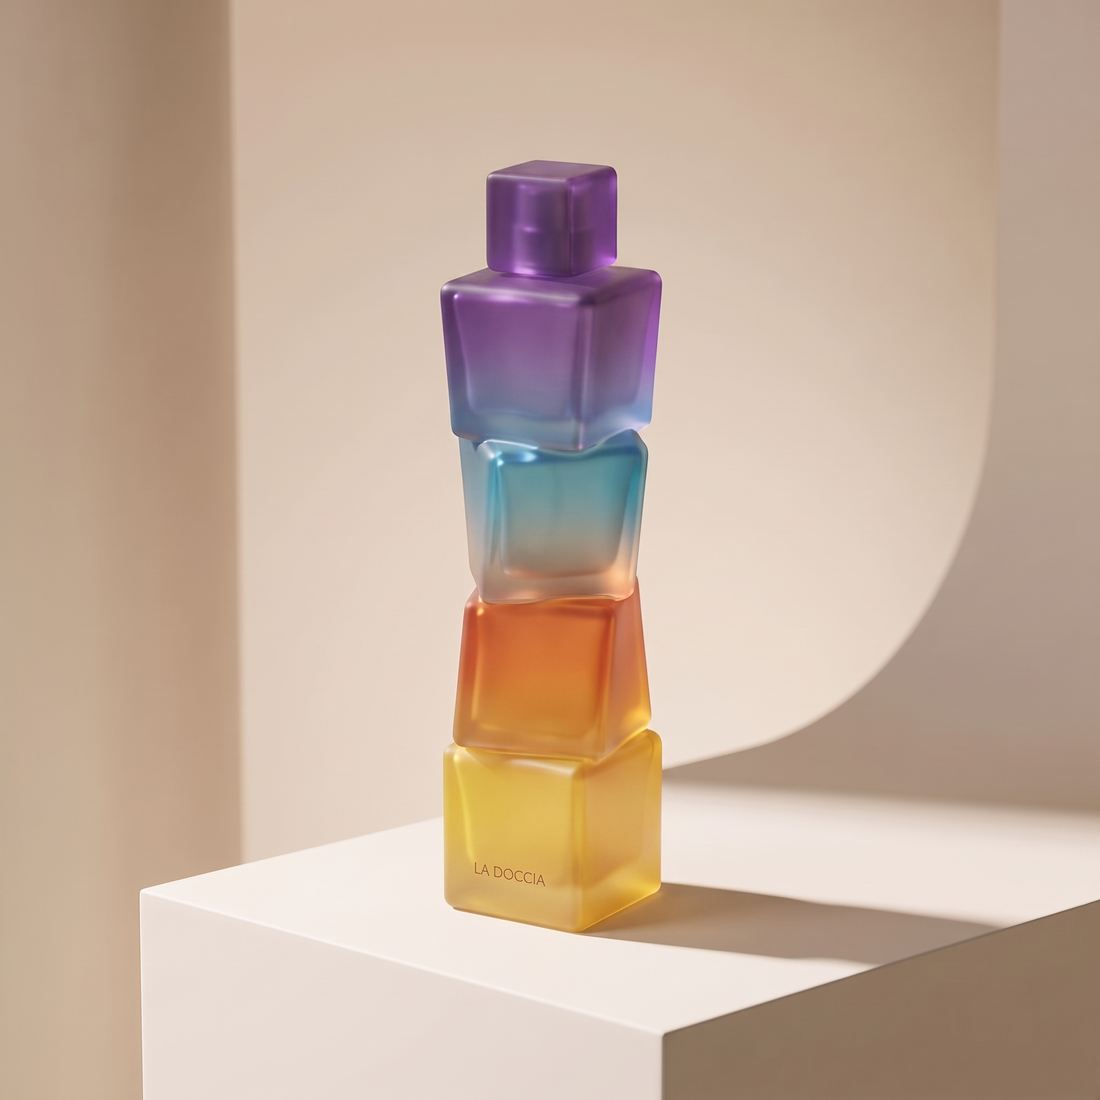
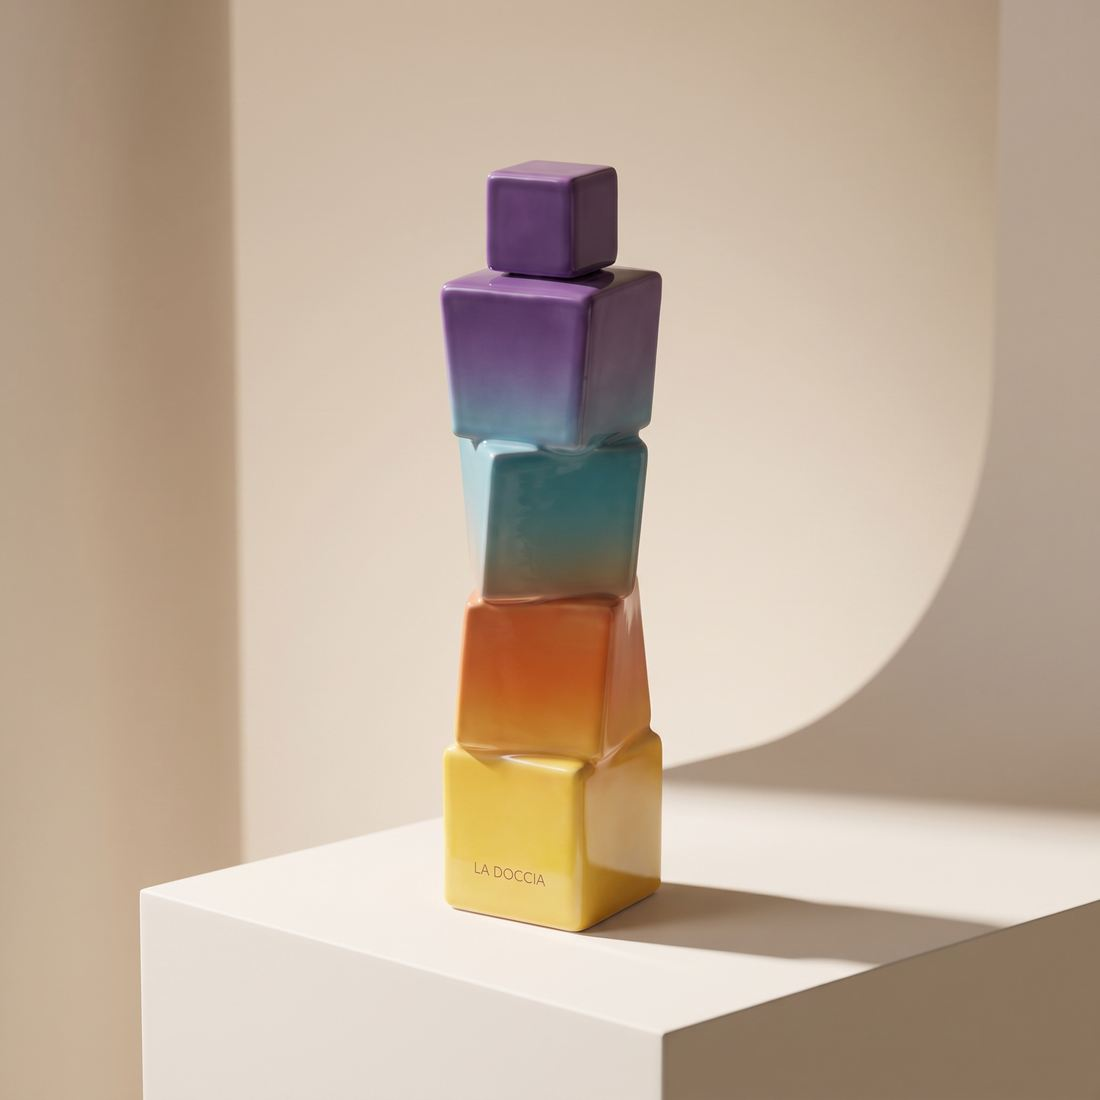
Glas-Editionen zusaetzlich: jede Wuerfel-Parfuemform jetzt auch in satiniertem Glas
- Originale (lackiert) wiederhergestellt - bleiben unveraendert
- 6 neue Produkte als Glas-Edition „Vetro": Torre, Quattro, Duo, Piccolo, Grattacielo, Cubo (p159-p164)
- Gleiche Form wie das jeweilige Original, Material satiniert-opakes Glas, je 3 Galeriebilder
- Glas-Editionen liegen im Shop direkt neben ihrem lackierten Original

Changed region(s): [[0.4018, 0.1236, 0.6491, 0.8655]]

diff --git a/index.html b/index.html
@@ -2073,14 +2073,18 @@ const P=[
  {id:'p137',cat:'mode',sc:'taschen',who:'damen',n:'Baguette „Lunga“',p:249,img:'assets/p/137_a.jpg',img2:'assets/p/137_a_v2.jpg',gal:["assets/p/137_a_v2.jpg", "assets/p/137_a_v3.jpg"],r:4.9,rv:2,badge:'Neu',mat:'Genarbtes Leder',rel:["p117","p136","p116"],d:'Die längliche Form der Familie: schmale Baguette-Tasche mit exakt geraden Kanten, goldener Ziernaht und den vier goldgefassten Quadraten auf der Front.',x:'Unter den Arm oder in die Hand — Magnetverschluss, goldene Füße am Boden.'},
  {id:'p138',cat:'mode',sc:'oberteile',who:'herren',n:'Sommerhemd „Quadri“',p:129,img:'assets/p/138_a.jpg',img2:'assets/p/138_a_v2.jpg',gal:["assets/p/138_a_v2.jpg", "assets/p/138_a_v3.jpg"],r:4.9,rv:2,badge:'Neu',mat:'100 % Baumwolle',sizes:["S","M","L","XL"],rel:["p131","p149","p122"],d:'Das Sommerhemd mit dem gestreuten Quadrate-Print — wie Farbtropfen im Regen, elegant statt laut. Goldene Quadrat-Knöpfe, türkise Ziernaht am Kragen.',x:'Reverskragen, gerader Saum — lässt sich offen oder geschlossen tragen. Bei 30 °C waschen.'},
  {id:'p140',cat:'parfuem',sc:'edp',n:'Eau de Parfum „Duo“, 30 ml',p:99,img:'assets/p/140_a.jpg',img2:'assets/p/140_b.jpg',gal:["assets/p/140_b.jpg", "assets/p/140_c.jpg"],r:4.9,rv:2,badge:'Neu',rel:["p128","p141","p128"],d:'Zwei Würfel, zwei Farben: Türkis unten, Violett oben, ein geschlossener Block — der kleine Bruder des Turms. Die Öffnung sitzt unsichtbar im oberen Würfel.',x:'12 % Duftölanteil. Handlich fürs Regal und die Reise.'},
+ {id:'p161',cat:'parfuem',sc:'edp',n:'Eau de Parfum „Duo Vetro“, 30 ml',p:99,img:'assets/p/140_glas_a.jpg',img2:'assets/p/140_glas_b.jpg',gal:["assets/p/140_glas_b.jpg", "assets/p/140_glas_c.jpg"],r:5.0,rv:2,badge:'Neu',rel:["p140","p162","p160"],d:'Zwei Würfel, Türkis und Violett, als Edition aus satiniertem, undurchsichtigem Glas. Gleiche Form wie „Duo“, neues Material.',x:'Satinierte Glas-Edition — dieselbe Duftkomposition wie „Duo“. Design geschützt.'},
  {id:'p141',cat:'parfuem',sc:'edp',n:'Eau de Parfum „Piccolo“, 15 ml',p:59,img:'assets/p/141_a.jpg',img2:'assets/p/141_b.jpg',gal:["assets/p/141_b.jpg", "assets/p/141_c.jpg"],r:4.9,rv:3,badge:'Neu',rel:["p140","p128","p141"],d:'Ein einzelner Würfel in Gelb mit Golddeckel — das Reiseformat der Turm-Familie, klein wie ein Schmuckstück.',x:'Flugtauglich unter 100 ml. Auch schön als Geschenk zum Kennenlernen.'},
+ {id:'p162',cat:'parfuem',sc:'edp',n:'Eau de Parfum „Piccolo Vetro“, 15 ml',p:59,img:'assets/p/141_glas_a.jpg',img2:'assets/p/141_glas_b.jpg',gal:["assets/p/141_glas_b.jpg", "assets/p/141_glas_c.jpg"],r:5.0,rv:2,badge:'Neu',rel:["p141","p161","p164"],d:'Der einzelne gelbe Würfel mit Golddeckel als satinierte Glas-Edition — das Reiseformat in neuem Material. Gleiche Form wie „Piccolo“.',x:'Satinierte Glas-Edition — dieselbe Duftkomposition wie „Piccolo“. Design geschützt.'},
  {id:'p142',cat:'parfuem',sc:'edp',n:'Eau de Parfum „Grattacielo“, 75 ml',p:189,img:'assets/p/142_a.jpg',img2:'assets/p/142_b.jpg',gal:["assets/p/142_b.jpg", "assets/p/142_c.jpg"],r:5.0,rv:2,badge:'Neu',rel:["p128","p128","p140"],d:'Der Wolkenkratzer: sechs dünne Glasscheiben in den Markenfarben übereinander, oben bündig geschlossen — das große Format der Familie.',x:'15 % Duftölanteil — der langlebigste Duft der Kollektion.'},
+ {id:'p163',cat:'parfuem',sc:'edp',n:'Eau de Parfum „Grattacielo Vetro“, 75 ml',p:189,img:'assets/p/142_glas_a.jpg',img2:'assets/p/142_glas_b.jpg',gal:["assets/p/142_glas_b.jpg", "assets/p/142_glas_c.jpg"],r:5.0,rv:2,badge:'Neu',rel:["p142","p159","p164"],d:'Der Wolkenkratzer als satinierte Glas-Edition: sechs Farbschichten übereinander, undurchsichtig, mit weichem Glas-Schimmer. Gleiche Form wie „Grattacielo“, neues Material.',x:'Satinierte Glas-Edition — dieselbe Duftkomposition wie „Grattacielo“. Design geschützt.'},
  {id:'p143',cat:'mode',sc:'jacken',who:'herren',n:'Daunenjacke „Piuma“',p:399,img:'assets/p/143_schwarz.jpg',img2:'assets/p/143_schwarz_v2.jpg',gal:["assets/p/143_schwarz_v2.jpg", "assets/p/143_schwarz_v3.jpg"],colors:[5,2,4],cimg:{Schwarz:'assets/p/143_schwarz.jpg','Türkis':'assets/p/143_tuerkis.jpg',Weiß:'assets/p/143_weiss.jpg'},r:5.0,rv:2,badge:'Neu',mat:'Recyceltes Polyamid, Daune (RDS)',sizes:["S","M","L","XL"],rel:["p126","p146","p149"],d:'Unsere Daunenjacke mit dem Quadrat-Stepp: statt Querstreifen wölbt sich jede Kammer als Quadrat. Goldener Reißverschluss, Brustbadge mit den vier Quadraten.',x:'Warm, leicht, wasserabweisend. Bei 30 °C im Schonwaschgang, mit Tennisbällen trocknen.'},
  {id:'p144',cat:'mode',sc:'jacken',who:'damen',n:'Daunenjacke „Piuma Donna“',p:379,img:'assets/p/144_violett.jpg',img2:'assets/p/144_violett_v2.jpg',gal:["assets/p/144_violett_v2.jpg", "assets/p/144_violett_v3.jpg"],colors:[3,4,1],cimg:{Violett:'assets/p/144_violett.jpg',Weiß:'assets/p/144_weiss.jpg',Orange:'assets/p/144_orange.jpg'},r:5.0,rv:3,badge:'Neu',mat:'Recyceltes Polyamid, Daune (RDS)',sizes:["XS","S","M","L"],rel:["p143","p117","p116"],d:'Die cropped Version mit Quadrat-Steppung und Goldzipper — Volumen oben, Taille frei.',x:'Warm, federleicht, wasserabweisend. Bei 30 °C im Schonwaschgang.'},
  {id:'p145',cat:'mode',sc:'oberteile',who:'damen',n:'Strickpullover „Quadretti“',p:179,img:'assets/p/145_creme.jpg',img2:'assets/p/145_creme_v2.jpg',gal:["assets/p/145_creme_v2.jpg", "assets/p/145_creme_v3.jpg"],colors:[4,5],cimg:{Weiß:'assets/p/145_creme.jpg',Schwarz:'assets/p/145_anthrazit.jpg'},r:4.9,rv:2,badge:'Neu',mat:'70 % Wolle, 30 % Baumwolle',sizes:["XS","S","M","L"],rel:["p134","p144","p116"],d:'Cremefarbener Strick mit eingestrickten Hohlquadraten in den vier Markenfarben — verspielt, aber teuer gedacht. Goldfaden an Kragen und Bündchen.',x:'Intarsien-Strick, kein Aufdruck. Handwäsche oder Wollprogramm.'},
  {id:'p146',cat:'mode',sc:'sport',who:'herren',n:'Track-Jacke „Pista“',p:199,img:'assets/p/146_weiss.jpg',img2:'assets/p/146_weiss_v2.jpg',gal:["assets/p/146_weiss_v2.jpg", "assets/p/146_weiss_v3.jpg"],colors:[4,5],cimg:{Weiß:'assets/p/146_weiss.jpg',Schwarz:'assets/p/146_schwarz.jpg'},r:4.9,rv:2,badge:'Neu',mat:'Technischer Jersey',sizes:["S","M","L","XL"],rel:["p143","p133","p122"],d:'Retro-Sportjacke mit dem Quadrate-Band an beiden Ärmeln und goldener Stickerei — Sport als Mode.',x:'Rippkragen mit Türkis-Orange-Tipping. Bei 30 °C waschen.'},
  {id:'p147',cat:'mode',sc:'jacken',who:'kinder',n:'Kinder-Daunenjacke „Piumino“',p:149,img:'assets/p/147_weiss.jpg',img2:'assets/p/147_weiss_v2.jpg',gal:["assets/p/147_weiss_v2.jpg", "assets/p/147_weiss_v3.jpg"],colors:[4,0,2],cimg:{Weiß:'assets/p/147_weiss.jpg',Gelb:'assets/p/147_gelb.jpg','Türkis':'assets/p/147_tuerkis.jpg'},r:5.0,rv:2,badge:'Neu',mat:'Matter Baumwoll-Mix, Wattierung',sizes:["98/104","110/116","122/128"],rel:["p82","p83","p87"],d:'Die Mini-Piuma in Mattoptik: Quadrat-Steppung, kuschelige Kapuze mit farbigem Futter und die vier Quadrate als Stickerei auf der Brust.',x:'Wattiert statt Daune — pflegeleicht und tierfreundlich. Bei 30 °C waschbar.'},
  {id:'p148',cat:'parfuem',sc:'edp',n:'Eau de Parfum „Torre“, 100 ml',p:199,img:'assets/p/148_a.jpg',img2:'assets/p/148_b.jpg',gal:["assets/p/148_b.jpg", "assets/p/148_c.jpg"],r:5.0,rv:2,badge:'Neu',rel:["p128","p142","p128"],d:'Der große Turm: fünf Farbwürfel übereinander, und die Wortmarke läuft senkrecht über die Kanten — die Quadrate sitzen mitten in den Buchstaben. Das Sammlerstück der Kollektion.',x:'15 % Duftölanteil, 100 ml. Der oberste Würfel ist der Deckel. Design geschützt.'},
+ {id:'p159',cat:'parfuem',sc:'edp',n:'Eau de Parfum „Torre Vetro“, 100 ml',p:199,img:'assets/p/148_glas_a.jpg',img2:'assets/p/148_glas_b.jpg',gal:["assets/p/148_glas_b.jpg", "assets/p/148_glas_c.jpg"],r:5.0,rv:2,badge:'Neu',rel:["p148","p163","p160"],d:'Der große Turm als Edition aus satiniertem, undurchsichtigem Glas: fünf Farbwürfel übereinander mit senkrechter Wortmarke. Gleiche Form wie „Torre“, neues Material — mattes Glas mit weichem Schimmer.',x:'Satinierte Glas-Edition — dieselbe Duftkomposition wie „Torre“. Design geschützt.'},
 {id:'p149',cat:'mode',sc:'oberteile',who:'herren',n:'Premium-Polo „Bottone“',p:149,img:'assets/p/149_a.jpg',img2:'assets/p/149_a_v2.jpg',gal:["assets/p/149_a_v2.jpg", "assets/p/149_a_v3.jpg"],r:5.0,rv:2,badge:'Neu',mat:'Baumwoll-Piqué',sizes:["S","M","L","XL"],rel:["p146","p122","p120"],d:'Das Polo mit den goldenen Quadrat-Knöpfen — leicht abgerundet wie die Quadrate im Logo. Goldene Ziernähte an Knopfleiste, Kragen und Ärmeln.',x:'Gestickte Gold-Wortmarke mit den vier Quadraten. Bei 30 °C waschen, Knöpfe unempfindlich.'},
 {id:'p150',cat:'mode',sc:'sport',who:'damen',n:'Track-Jacke „Pista Donna“',p:189,img:'assets/p/150_a.jpg',img2:'assets/p/150_a_v2.jpg',gal:["assets/p/150_a_v2.jpg", "assets/p/150_a_v3.jpg"],r:4.9,rv:2,badge:'Neu',mat:'Technischer Jersey',sizes:["XS","S","M","L"],rel:["p146","p108","p143"],d:'Die Pista für Damen: tailliert, mit dem Quadrate-Band an beiden Ärmeln, farbigen Ziernähten und goldenem Reißverschluss — Sport als Mode.',x:'Stehkragen, zwei Reißverschlusstaschen. Bei 30 °C waschen.'},
 {id:'p151',cat:'mode',sc:'oberteile',who:'kinder',n:'Kinder-Strickpulli „Quadretti Mini“',p:69,img:'assets/p/151_a.jpg',img2:'assets/p/151_a_v2.jpg',gal:["assets/p/151_a_v2.jpg", "assets/p/151_a_v3.jpg"],r:5.0,rv:2,badge:'Neu',mat:'Weiche Wollmischung',sizes:["98/104","110/116","122/128"],rel:["p147","p87","p82"],d:'Kuscheliger Strick in Creme mit verstreuten bunten Quadraten — das Quadretti-Muster für die Kleinen.',x:'Rippbündchen an Kragen und Ärmeln. Wollwaschgang, liegend trocknen.'},
@@ -2095,7 +2099,9 @@ const P=[
  {id:'p111',cat:'textil',sc:'tuecher',who:'kinder',n:'Kinder-Poncho „Onda“',p:29,img:'assets/p/111_a.jpg',img2:'assets/p/111_b.jpg',gal:['assets/p/111_b.jpg'],r:4.8,rv:9,badge:'Neu',mat:'100 % Baumwolle',rel:["p110","p84","p86"],d:'Sonnengelber Kapuzen-Poncho aus Frottee mit orangem Saum und Quadrate-Bordüre — überwerfen, fertig.',x:'Für Schwimmbad und Strand, trocknet schnell, eine Größe für 2–6 Jahre. Bei 60 °C waschbar.'},
  {id:'p112',cat:'mode',sc:'acc',who:'kinder',n:'Kinder-Regenschirm „Goccia“',p:22,img:'assets/p/112_a.jpg',img2:'assets/p/112_b.jpg',gal:['assets/p/112_b.jpg', "assets/p/112_a_v2.jpg", "assets/p/112_a_v3.jpg"],r:4.9,rv:8,badge:'Neu',rel:["p82","p83","p85"],d:'Oranger Kinderschirm mit Quadrate-Kante und türkisem Griff — Regen wird zum Lieblingswetter.',x:'Leichtgängig zu öffnen, abgerundete Spitzen, Ø 72 cm. Griff für kleine Hände.'},
  {id:'p113',cat:'parfuem',sc:'edp',n:'Eau de Parfum „Quattro“, 50 ml',p:159,img:'assets/p/113_a.jpg',img2:'assets/p/113_b.jpg',gal:["assets/p/113_b.jpg", "assets/p/113_c.jpg"],r:5.0,rv:4,badge:'Neu',rel:["p128","p148","p140"],d:'Vier gefrostete Farbsegmente in einer Flasche — Gelb, Orange, Türkis, Violett. Kein sichtbarer Deckel: die Öffnung sitzt unsichtbar im obersten Segment.',x:'13 % Duftölanteil, hält 7–9 Stunden. Design geschützt, Erstveröffentlichung dokumentiert.'},
+ {id:'p160',cat:'parfuem',sc:'edp',n:'Eau de Parfum „Quattro Vetro“, 50 ml',p:159,img:'assets/p/113_glas_a.jpg',img2:'assets/p/113_glas_b.jpg',gal:["assets/p/113_glas_b.jpg", "assets/p/113_glas_c.jpg"],r:5.0,rv:2,badge:'Neu',rel:["p113","p159","p161"],d:'Die vier Farbsegmente als satinierte Glas-Edition — undurchsichtig, mit weichem Schimmer und messerscharfen Kanten. Gleiche Form wie „Quattro“, neues Material.',x:'Satinierte Glas-Edition — dieselbe Duftkomposition wie „Quattro“. Design geschützt.'},
  {id:'p114',cat:'parfuem',sc:'edp',n:'Eau de Parfum „Cubo“, 50 ml',p:139,img:'assets/p/114_a.jpg',img2:'assets/p/114_b.jpg',gal:["assets/p/114_b.jpg", "assets/p/114_c.jpg"],r:4.9,rv:3,badge:'Neu',rel:["p113","p128","p113"],d:'Der Turm aus vier Würfeln: jeder leicht gegen den nächsten gedreht, innen fließt der Duft von Gelb nach Violett. Ein Guss, klare Kanten, Würfelkappe.',x:'12 % Duftölanteil, hält 6–8 Stunden. Steht wie ein Designobjekt im Regal — genau so gedacht.'},
+ {id:'p164',cat:'parfuem',sc:'edp',n:'Eau de Parfum „Cubo Vetro“, 50 ml',p:139,img:'assets/p/114_glas_a.jpg',img2:'assets/p/114_glas_b.jpg',gal:["assets/p/114_glas_b.jpg", "assets/p/114_glas_c.jpg"],r:5.0,rv:2,badge:'Neu',rel:["p114","p163","p162"],d:'Der gedrehte Würfelturm als satinierte Glas-Edition — undurchsichtiges Glas mit klaren Kanten. Gleiche Form wie „Cubo“, neues Material.',x:'Satinierte Glas-Edition — dieselbe Duftkomposition wie „Cubo“. Design geschützt.'},
  {id:'p116',cat:'mode',sc:'schuhe',who:'damen',n:'Plateau-Sneaker „Nuvola“',p:179,img:'assets/p/116_a.jpg',img2:'assets/p/116_a_v2.jpg',gal:["assets/p/116_a_v2.jpg", "assets/p/116_a_v3.jpg"],colors:[4,2,0],cimg:{Weiß:'assets/p/116_a.jpg','Türkis':'assets/p/116_tuerkis.jpg',Gelb:'assets/p/116_gelb.jpg'},r:4.9,rv:2,badge:'Neu',mat:'Canvas, Gummisohle',sizes:["36","37","38","39","40","41"],rel:["p64","p65","p105"],d:'Der Statement-Sneaker: cremeweiße Bumper-Sohle mit weicher, runder Kappe — wolkig dick, federleicht getragen.',x:'Geprägtes LA DOCCIA an der Ferse, vier gestickte Quadrate am Schaft. Sohle abwischbar, Obermaterial imprägniert.'},
  {id:'p117',cat:'mode',sc:'taschen',who:'damen',n:'Handtasche „Quadra“',p:349,img:'assets/p/117_neu_a.jpg',img2:'assets/p/117_neu_a_v2.jpg',gal:["assets/p/117_neu_a_v2.jpg", "assets/p/117_neu_a_v3.jpg"],colors:[6,5,7],cimg:{Gold:'assets/p/117_neu_a.jpg',Schwarz:'assets/p/117_naht-schwarz.jpg','Grün':'assets/p/117_naht-gruen.jpg'},r:4.9,rv:3,badge:'Neu',mat:'Genarbtes Leder, Baumwollfutter',rel:["p136","p137","p132"],d:'Streng quadratisch mit eckigen Griffen und dem goldgefassten Kristall-Quadrat. Die Ziernaht wählen Sie selbst: Gold, Schwarz oder Grün — unsere Handschrift, Ihre Entscheidung.',x:'Goldene Hardware, Magnetverschluss, Innenfach mit Reißverschluss.'},
  {id:'p118',cat:'mode',sc:'oberteile',who:'herren',n:'T-Shirt „Essenziale“',p:79,img:'assets/p/118_a.jpg',img2:'assets/p/118_b.jpg',gal:['assets/p/118_b.jpg','assets/p/118_video.mp4', "assets/p/118_a_v2.jpg", "assets/p/118_a_v3.jpg"],r:4.9,rv:4,badge:'Neu',mat:'100 % Bio-Baumwolle, 220 g/m²',sizes:["S","M","L","XL"],rel:["p149","p131","p122"],d:'Das schwere off-white T-Shirt mit den vier großen Hohlquadraten und der Serifen-Wortmarke auf der Brust — das Statement-Piece der Herrenlinie.',x:'Vorgewaschen, verstärkte Schulternähte, Rippkragen mit türkiser Linie. Bei 30 °C waschen.'},
